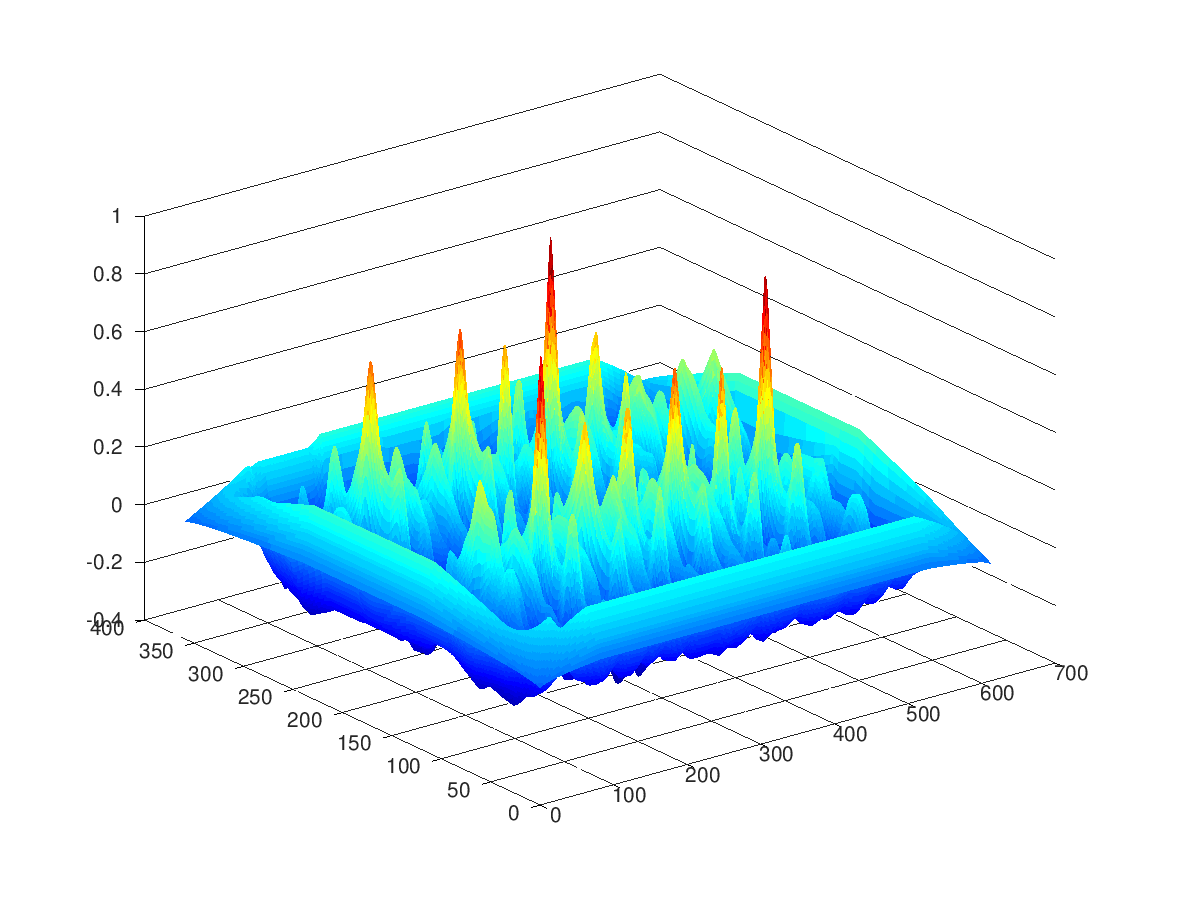
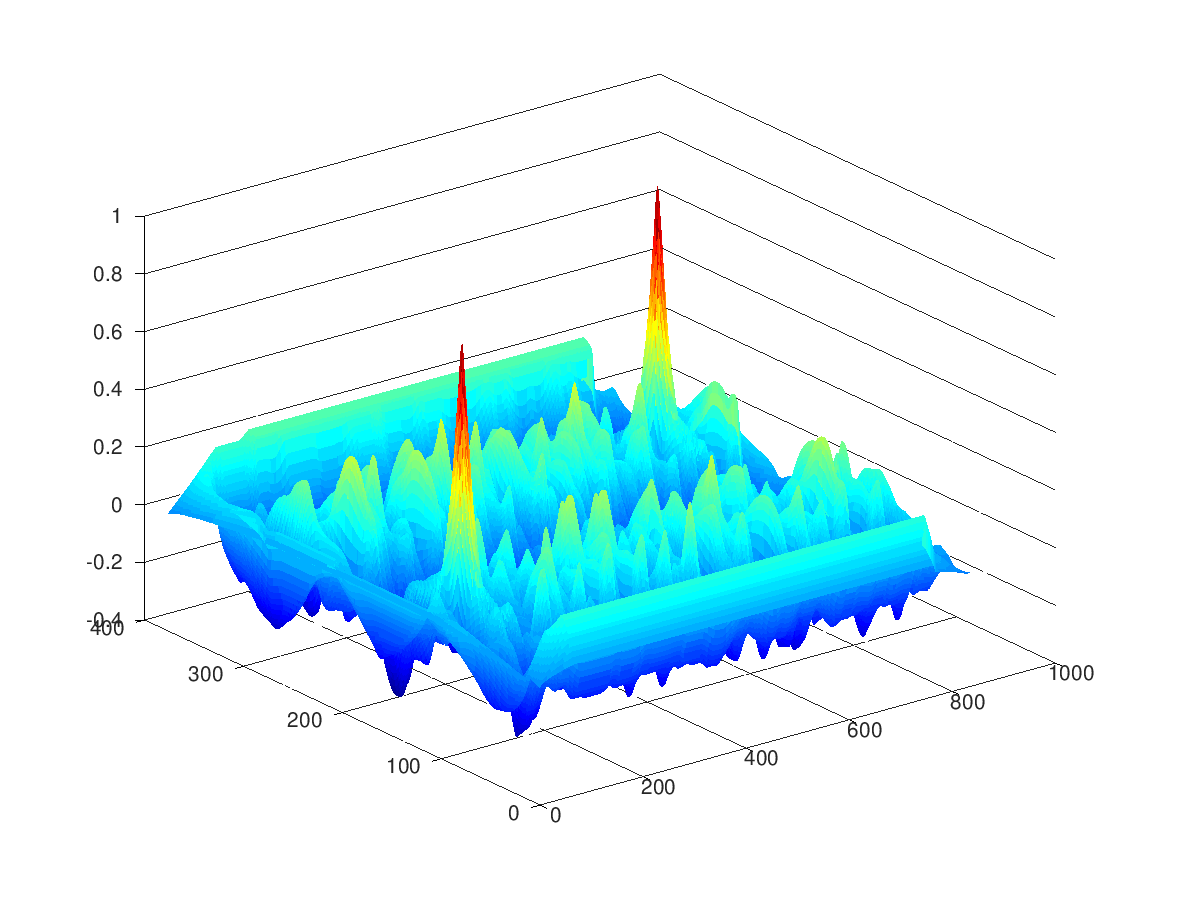
Ajout des fichiers sources images

diff --git a/main.m b/main.m
@@ -2,13 +2,13 @@ clear all;
 close all;
 
 % Import libraries
-graphics_toolkit gnuplot
+%graphics_toolkit gnuplot
 pkg load signal
 pkg load image
 pkg load geometry
 
 % Image read
-B=imread("motif.png");
+B=imread("motif1.png");
 mot=imread("mot.png");
 
 % Transform to gray scale
@@ -36,11 +36,10 @@ figure(3)
 colormap("jet");
 shading("flat");
 
-saveas(surf(d,"edgecolor","none"),"Rapports/illus/cor.png");
+surf(d,"edgecolor","none")
+saveas(figure(3),"Rapports/illus/cor.png");
 view(0,-90)
-V=surf(d,"edgecolor","none")
-view(0,-90)
-saveas(V,"Rapports/illus/cor1.png");
+saveas(figure(3),"Rapports/illus/cor1.png");
 figure(1)
 hold on;
 res=[];
@@ -48,7 +47,7 @@ ja=length(d(1,:))-1;
 ia=length(d(:,1))-1;
 for i=1:ia
   for j=1:ja
-    if d(i,j)>0.8
+    if d(i,j)>0.9
       res=[res; [i,j]];
     endif
   endfor
@@ -57,3 +56,4 @@ endfor
 for i=1:length(res)
   drawCircle(res(i,2)-length(ech(1,:))/2, res(i,1)-length(ech(:,1))/2, 10)
 endfor
+saveas(figure(1),"Rapports/illus/motiflocal.png")
